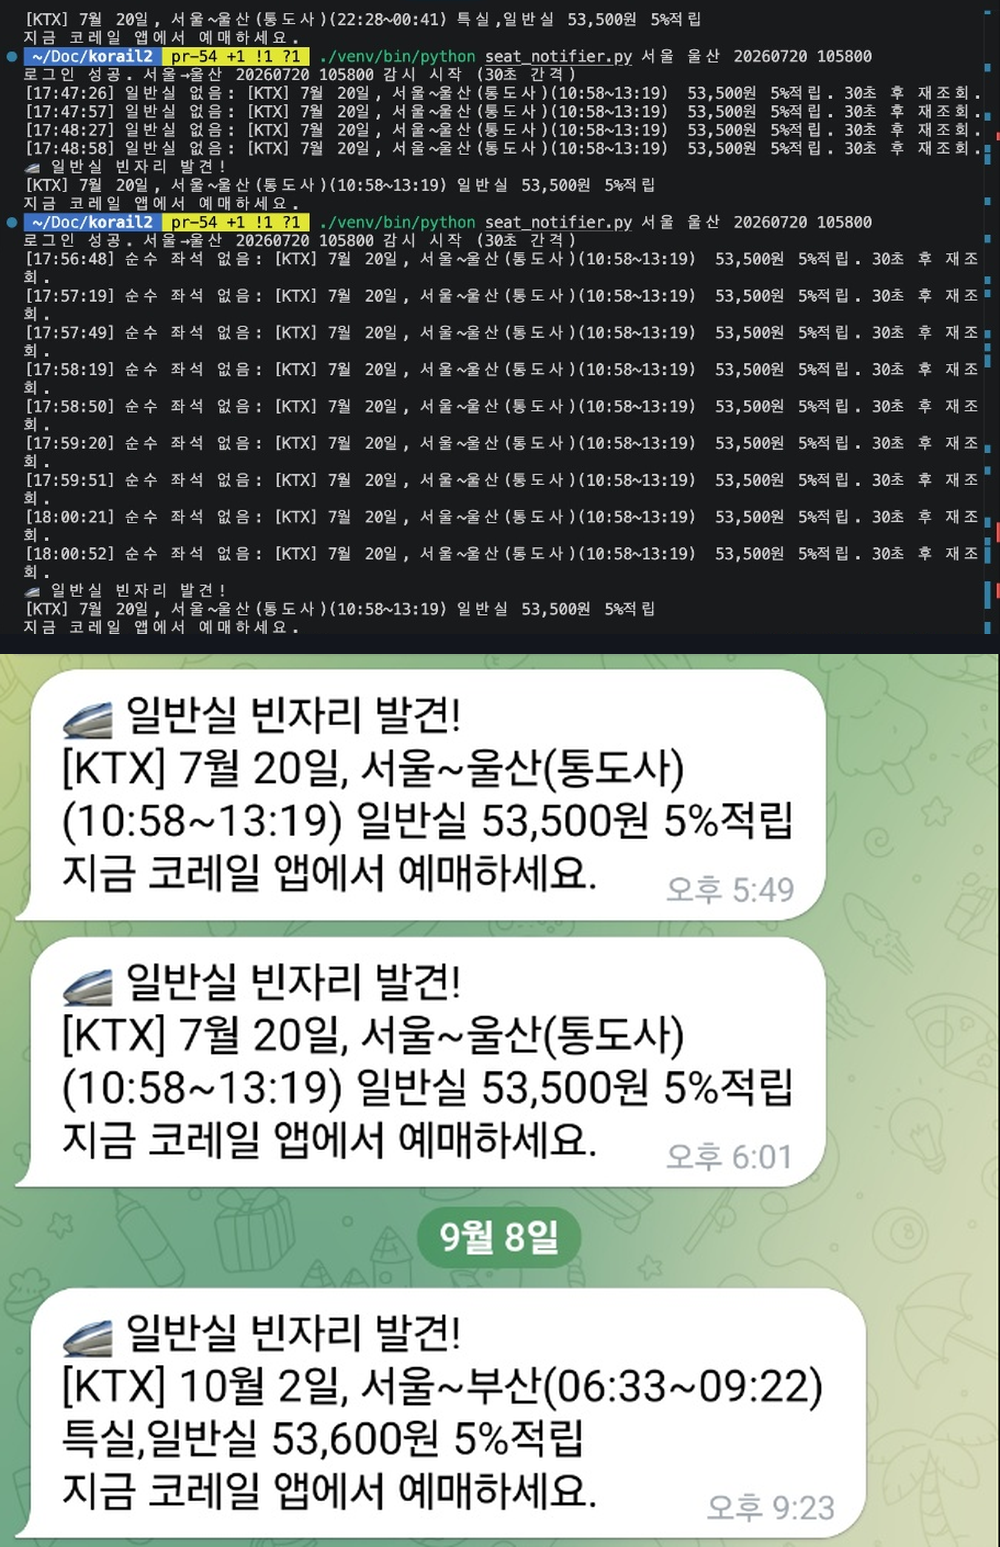
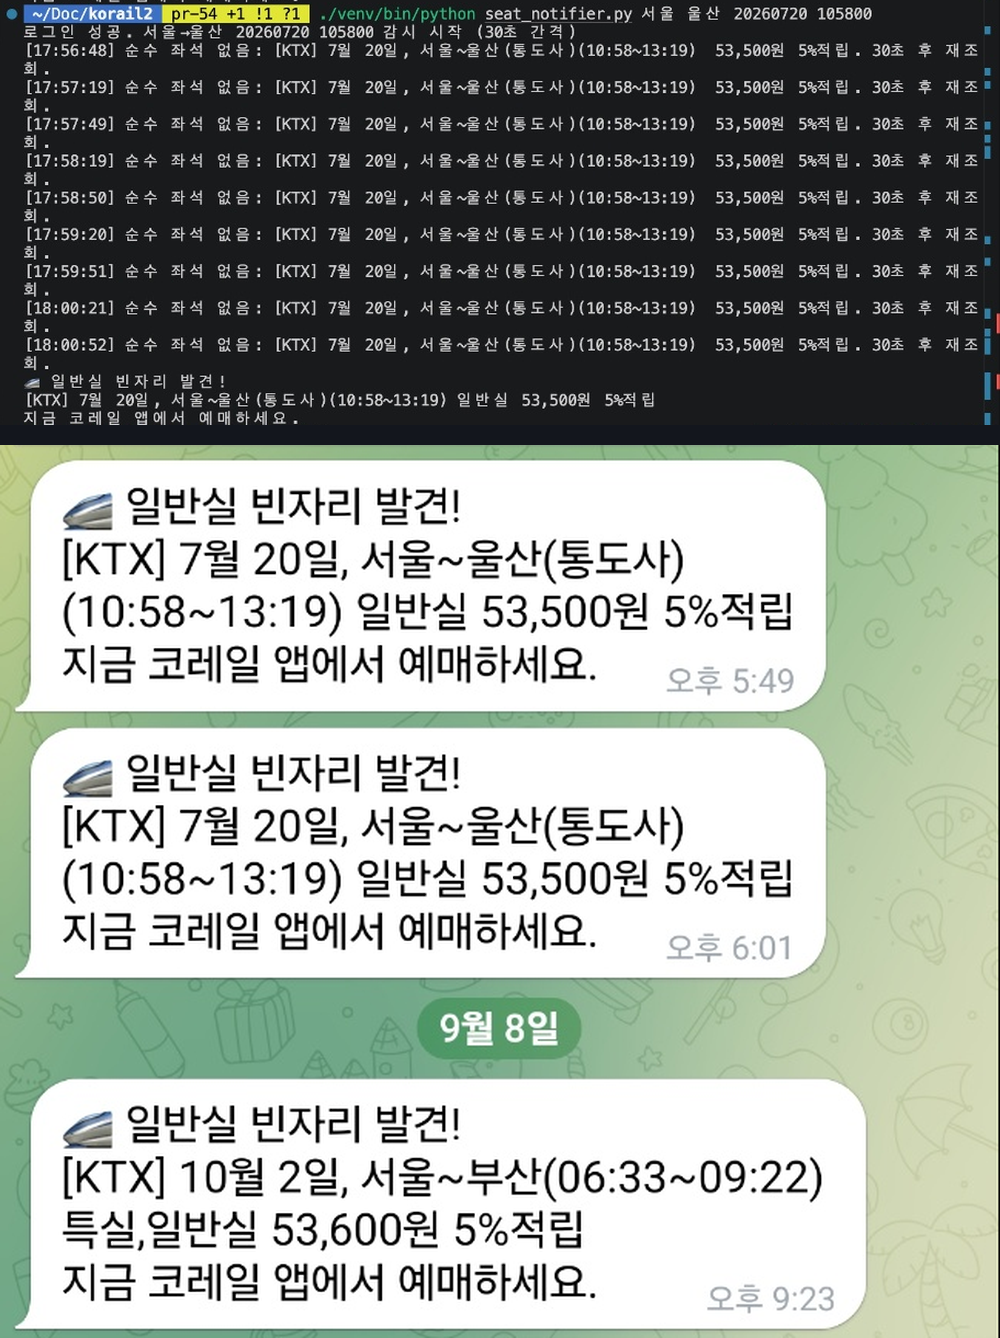
Trim the duplicate first run from the korail watch log

diff --git a/index.html b/index.html
@@ -241,7 +241,7 @@
     </div>
 
     <div class="activity featured" style="margin-top: 28px; margin-bottom: 0;">
-      <img src="/assets/img/korail.png?v=3" alt="korail-notifier가 빈자리를 감지한 터미널 로그와 텔레그램으로 도착한 빈자리 발견 알림">
+      <img src="/assets/img/korail.png?v=4" alt="korail-notifier가 빈자리를 감지한 터미널 로그와 텔레그램으로 도착한 빈자리 발견 알림">
       <div>
         <div class="head">
           <a class="name" href="https://github.com/2044smile/korail-notifier">korail-notifier</a>
